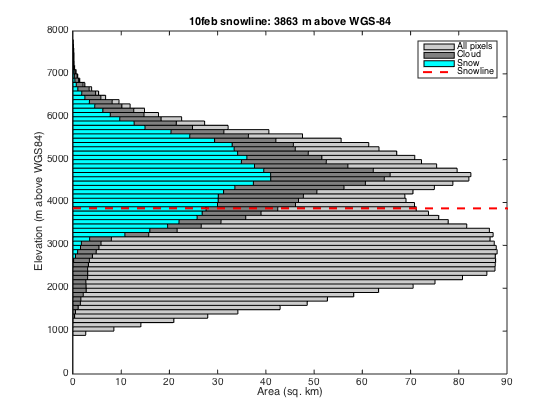
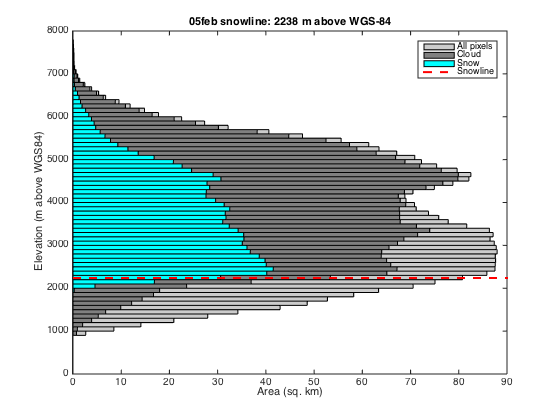
fix rdm

Changed region(s): [[0.1214, 0.1857, 0.8196, 0.8048], [0.4857, 0.031, 0.5464, 0.0619], [0.3339, 0.031, 0.3643, 0.0619]]

diff --git a/html/plotSnowLine.html b/html/plotSnowLine.html
@@ -69,7 +69,7 @@ table td { padding:7px 5px; text-align:left; vertical-align:top; border:1px soli
   </style></head><body><div class="content"><h2>Contents</h2><div><ul><li><a href="#1">Load data</a></li><li><a href="#2">Prepare masks</a></li><li><a href="#3">Count pixels by elevation bins</a></li><li><a href="#4">Find snowline elevation</a></li><li><a href="#5">Test result</a></li><li><a href="#6">Plot results</a></li></ul></div><h2>Load data<a name="1"></a></h2><p>Data in WGS84 UTM44N, 20m resolution, extent 340200m 3391600m 402980m 3338560m</p><pre class="codeinput"><span class="comment">% Copernicus 30 m DEM resampled to 20m</span>
 [z,R]=geotiffread(<span class="string">'ROIbb2/dem'</span>);
 <span class="comment">% Sentinel-2 FSC product from MAJA-LIS (Gascoin et al. 2019)</span>
-d=<span class="string">'10feb'</span>;
+d=<span class="string">'05feb'</span>;
 <span class="comment">%d='10feb';</span>
 f=geotiffread([<span class="string">'ROIbb2/fsc'</span> d]);
 <span class="comment">% pixel area in km2</span>
@@ -122,7 +122,7 @@ title(sprintf(<span class="string">'%s snowline: %4.4g m above WGS-84'</span>,d,
 % Copernicus 30 m DEM resampled to 20m
 [z,R]=geotiffread('ROIbb2/dem');
 % Sentinel-2 FSC product from MAJA-LIS (Gascoin et al. 2019)
-d='10feb'; 
+d='05feb'; 
 %d='10feb';
 f=geotiffread(['ROIbb2/fsc' d]);
 % pixel area in km2
